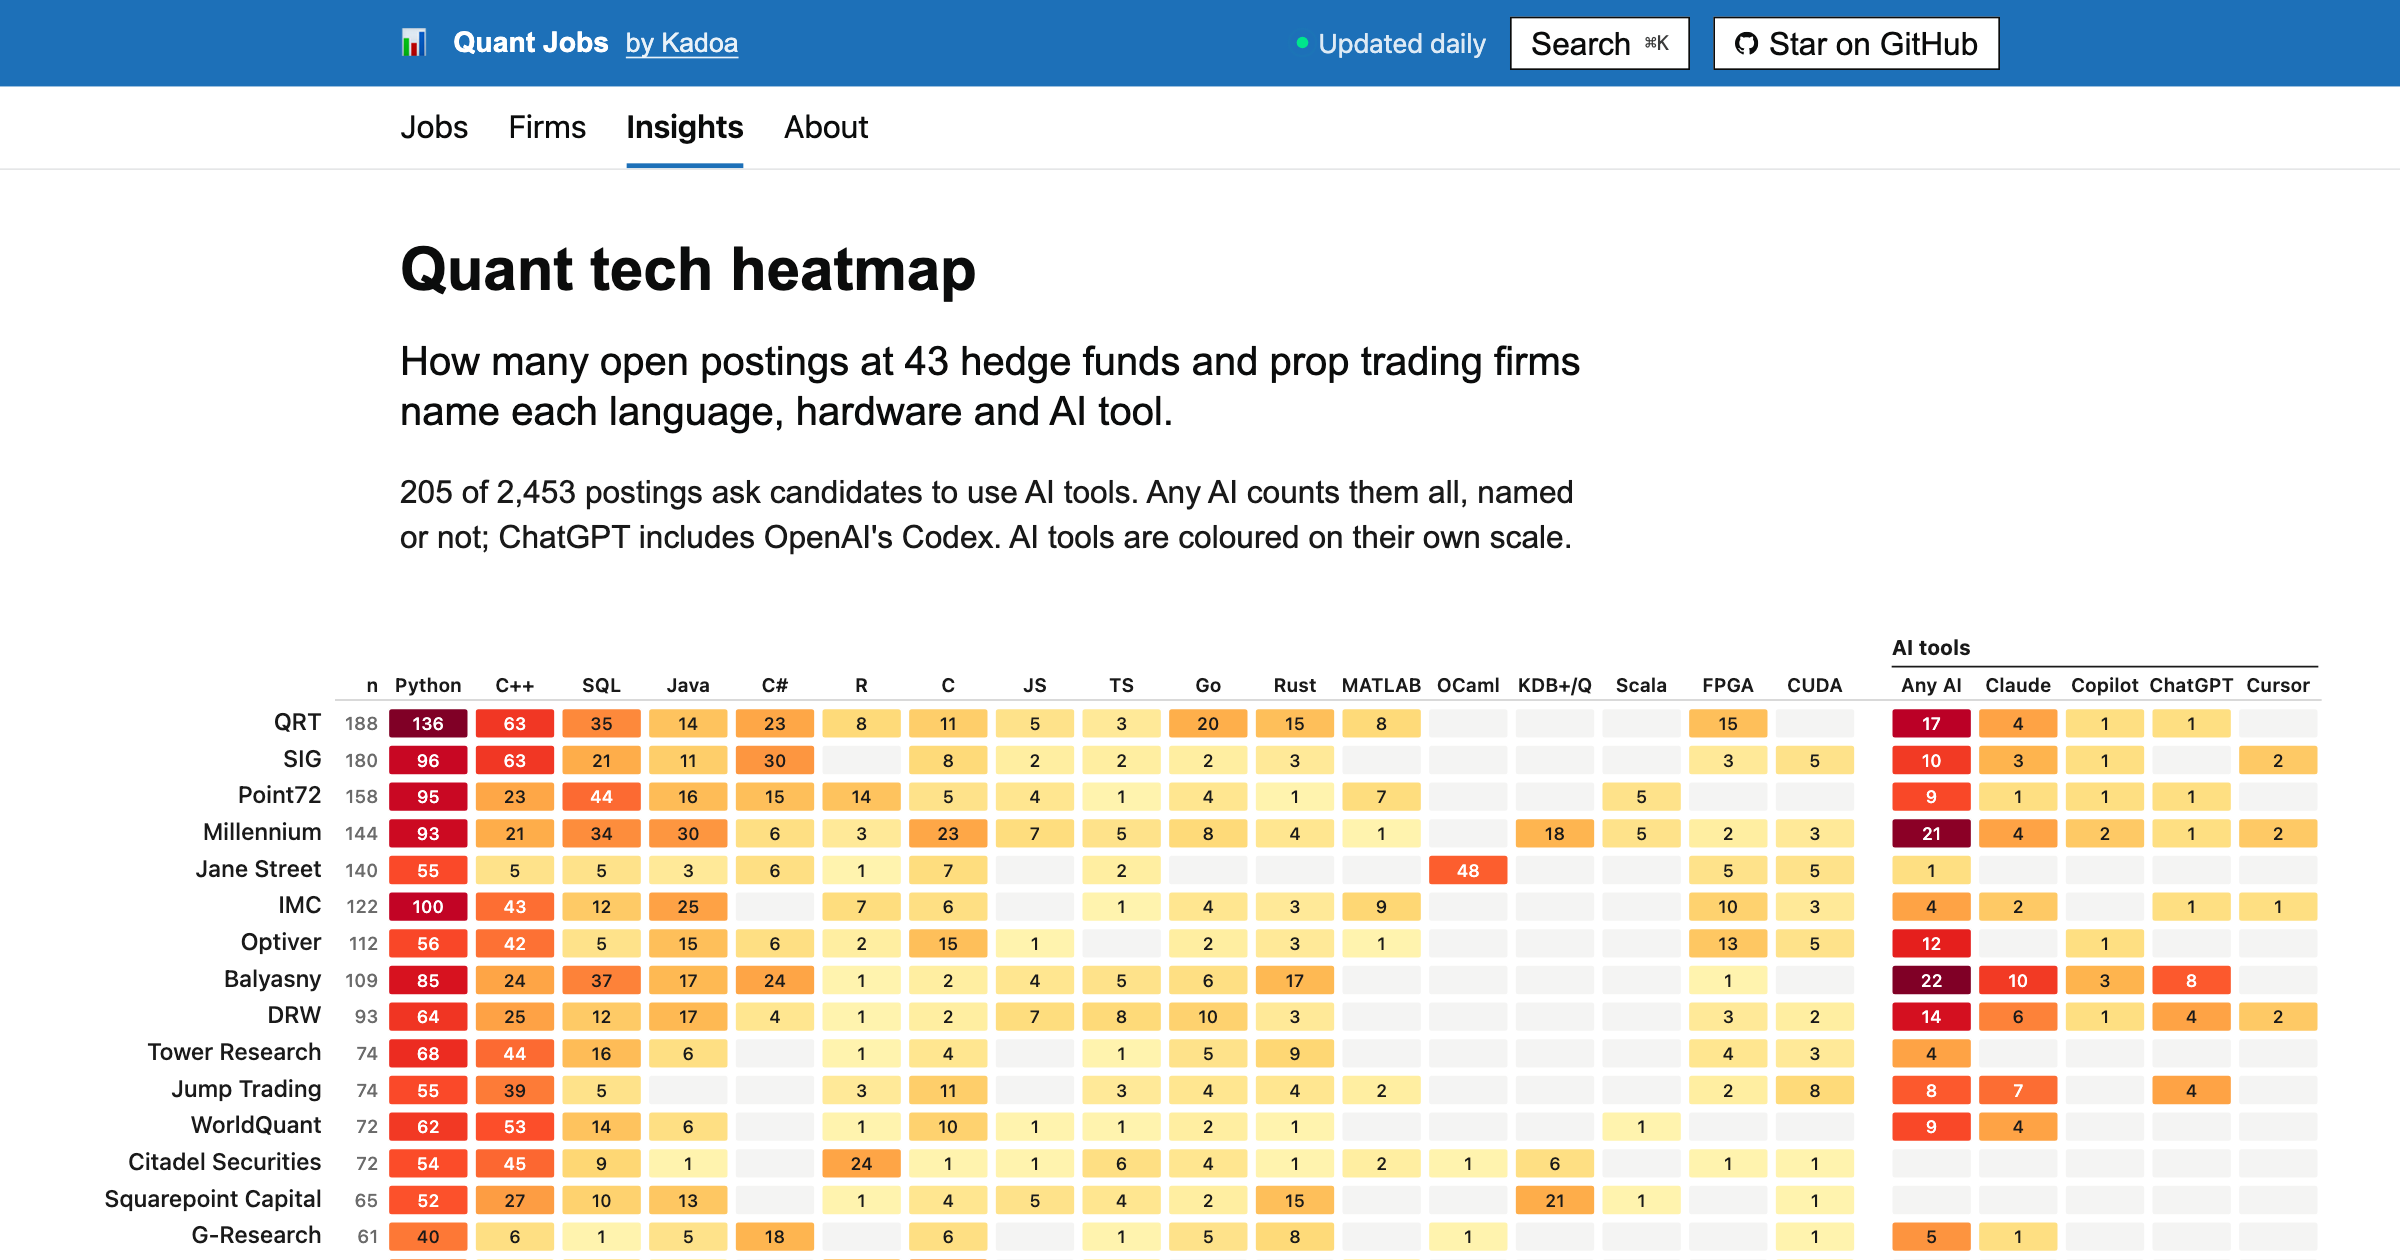
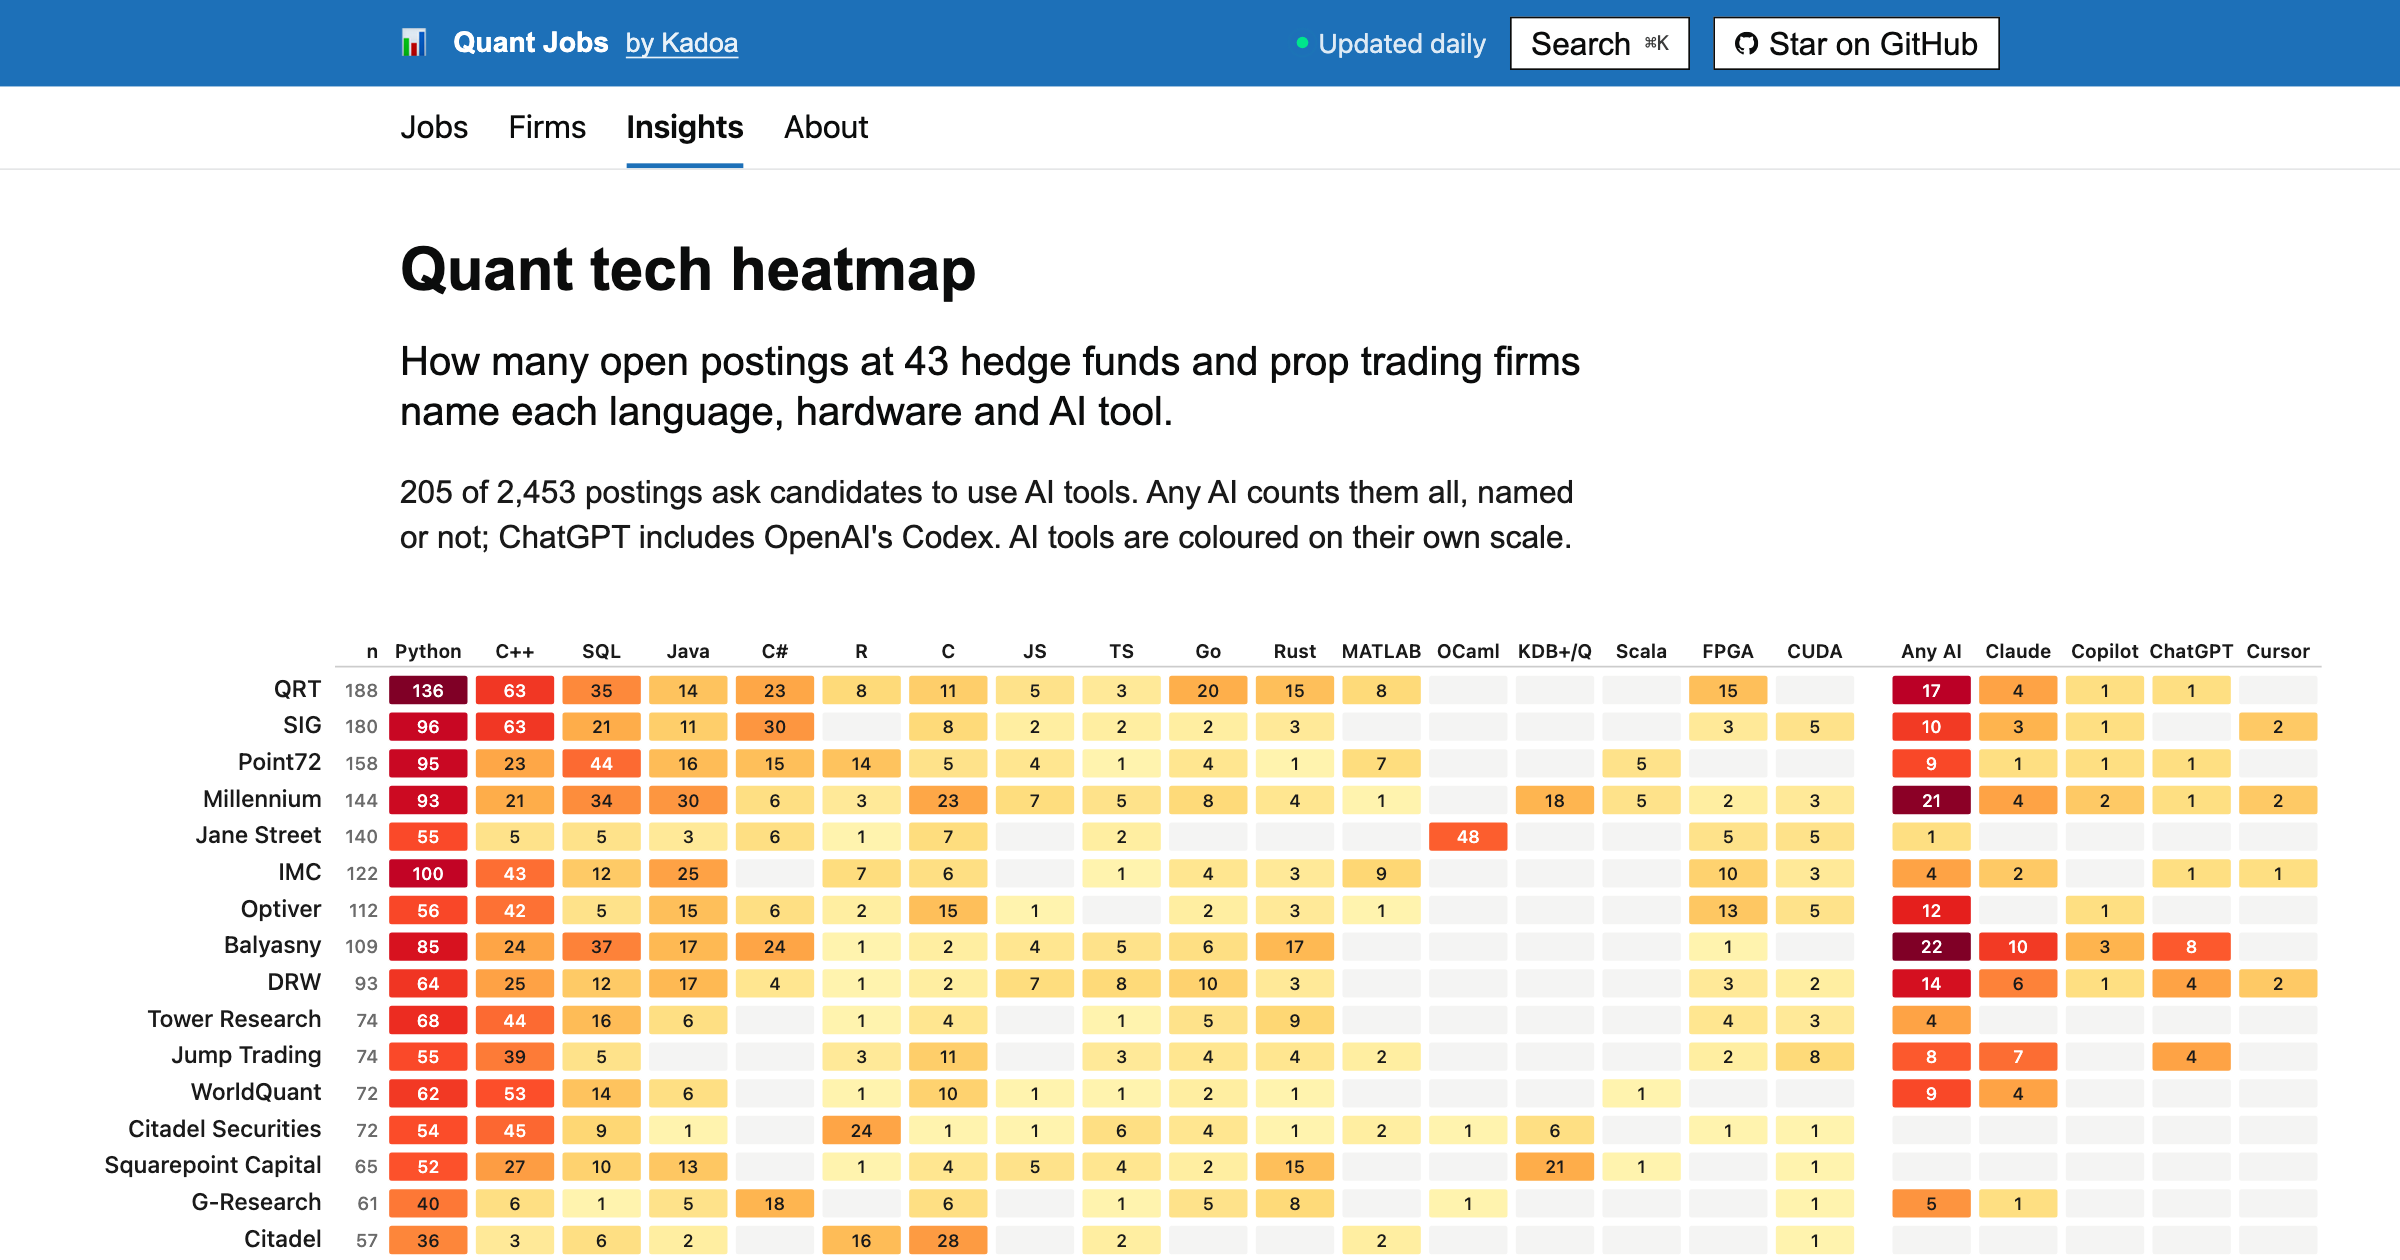
Tech heatmap: no group headers, a gap sets the AI tools apart

Changed region(s): [[0.0312, 0.4952, 0.9688, 1.0]]

diff --git a/src/TechStackHeatmap.jsx b/src/TechStackHeatmap.jsx
@@ -111,24 +111,21 @@ function escapeText(s) {
   return s.replace(/&/g, "&amp;").replace(/</g, "&lt;").replace(/>/g, "&gt;");
 }
 
-const GROUPS = [
-  { label: null, cols: TECHS },
-  { label: "AI tools", cols: AI },
-];
+// The AI tools sit to the right of the languages, after a gap.
+const GROUPS = [TECHS, AI];
 
-// The heatmap: a row per firm, a column per language, hardware and AI tool, the AI tools as their own group to the
-// right. Cell colour is the count, sqrt-scaled within each group: AI tools are asked for far less often than Python, so
+// The heatmap: a row per firm, a column per language, hardware and AI tool. Cell colour is the count, sqrt-scaled within each group: AI tools are asked for far less often than Python, so
 // on one shared scale every AI cell would be pale.
 function buildSvg(firms) {
   const rowsData = firms.filter((f) => COLS.some((c) => f.counts[c] > 0));
-  const groupMax = GROUPS.map((g) => Math.max(0, ...rowsData.flatMap((f) => g.cols.map((c) => f.counts[c]))));
+  const groupMax = GROUPS.map((g) => Math.max(0, ...rowsData.flatMap((f) => g.map((c) => f.counts[c]))));
 
   const firmW = 150;
   const nW = 30;
   const cellW = 52;
   const groupGap = 18;
   const left = 8;
-  const top = 56;
+  const top = 36;
   const rowH = 22;
   const cellPad = 2;
   const nColX = left + firmW;
@@ -137,7 +134,7 @@ function buildSvg(firms) {
   let x = plotStartX;
   GROUPS.forEach((g, gi) => {
     if (gi) x += groupGap;
-    for (const c of g.cols) {
+    for (const c of g) {
       cols.push({ name: c, x, group: gi });
       x += cellW;
     }
@@ -148,16 +145,7 @@ function buildSvg(firms) {
   const height = totalH + 16;
   const headerBaselineY = top - 8;
   const ruleY = top - 3;
-  const groupBaselineY = top - 30;
 
-  // Only the AI tools carry a group label; the languages need none.
-  const groupHeaders = GROUPS.map((g, gi) => {
-    if (!g.label) return "";
-    const gc = cols.filter((c) => c.group === gi);
-    const x1 = gc[0].x + cellPad;
-    const x2 = gc[gc.length - 1].x + cellW - cellPad;
-    return `<text x="${x1}" y="${groupBaselineY}" font-size="12.5" font-weight="700" fill="#1a1a1a">${escapeText(g.label)}</text><line x1="${x1}" y1="${groupBaselineY + 7}" x2="${x2}" y2="${groupBaselineY + 7}" stroke="#1a1a1a" stroke-width="1"/>`;
-  }).join("");
   const colHeaders = cols
     .map((c) => `<text x="${c.x + cellW / 2}" y="${headerBaselineY}" text-anchor="middle" font-size="11.5" font-weight="600" fill="#1a1a1a">${escapeText(TECH_DISPLAY[c.name] || c.name)}</text>`)
     .join("");
@@ -189,7 +177,7 @@ function buildSvg(firms) {
   const bottomRule = `<line x1="${left}" y1="${totalH + 2}" x2="${plotEndX}" y2="${totalH + 2}" stroke="rgba(0,0,0,0.12)" stroke-width="1"/>`;
 
   return {
-    svg: `<svg width="${width}" height="${height}" viewBox="0 0 ${width} ${height}" xmlns="http://www.w3.org/2000/svg"><g>${groupHeaders}</g><g>${colHeaders}</g>${nHeader}${topRule}<g>${rows}</g>${bottomRule}</svg>`,
+    svg: `<svg width="${width}" height="${height}" viewBox="0 0 ${width} ${height}" xmlns="http://www.w3.org/2000/svg"><g>${colHeaders}</g>${nHeader}${topRule}<g>${rows}</g>${bottomRule}</svg>`,
     width,
   };
 }
